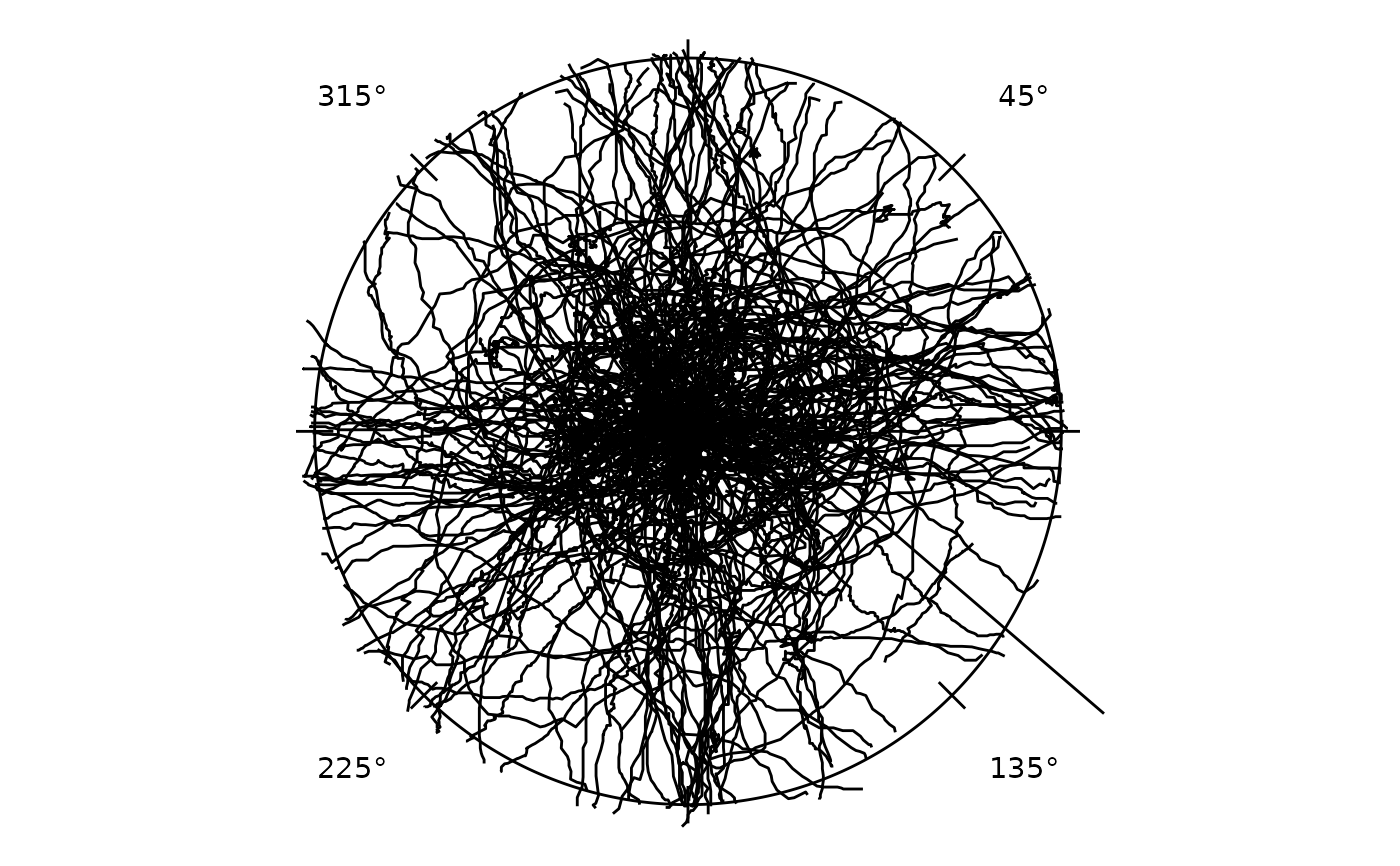
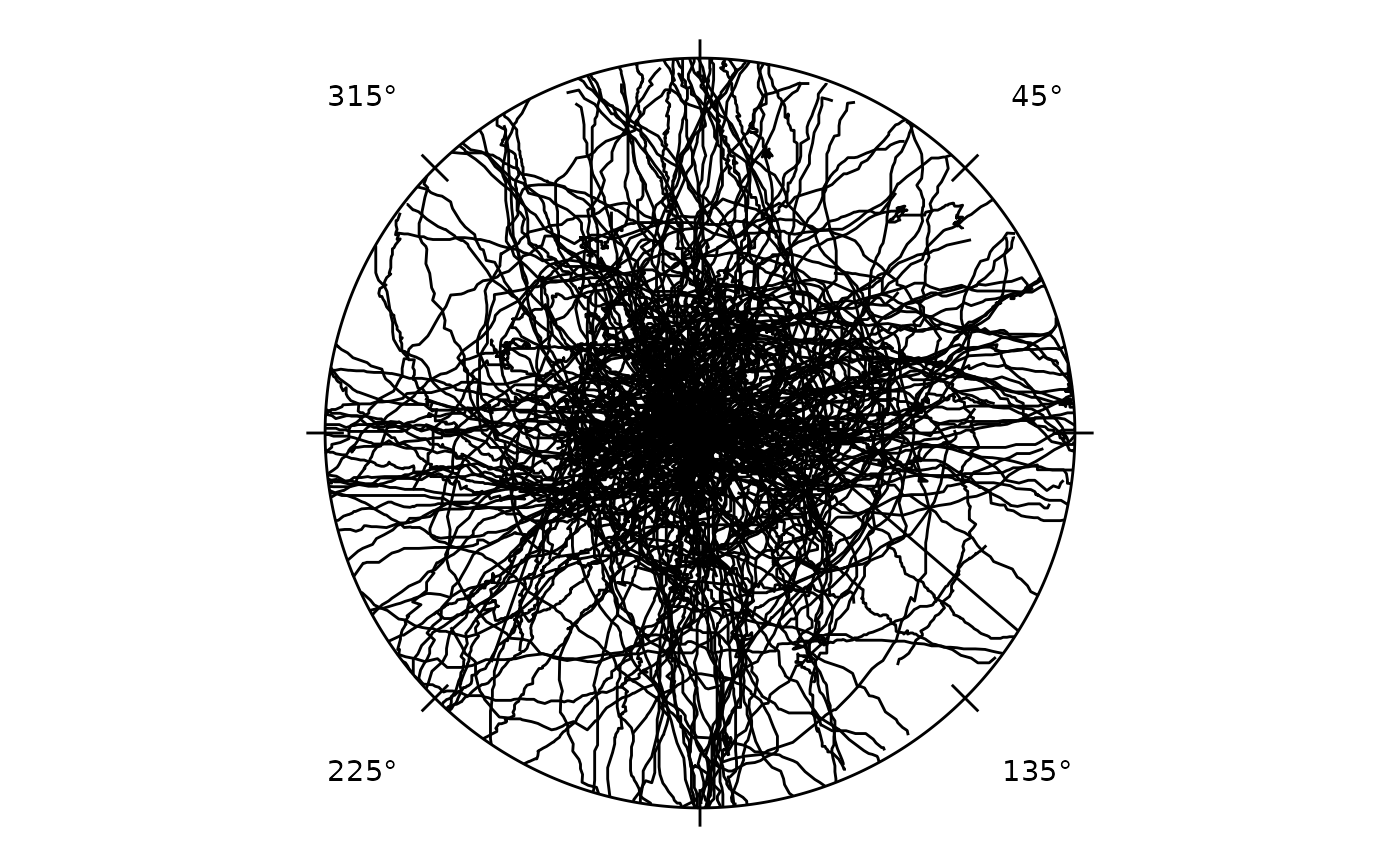
Deploying to gh-pages from @ JohnKirwan/radiatR@c9ec10226118670552b8f005bbaa3a85ccb03f56 🚀

diff --git a/articles/radiatR.html b/articles/radiatR.html
@@ -205,7 +205,9 @@ inspect the un-rotated frame as an experimental control (for instance,
 to check the apparatus carries no directional bias of its own), pass
 <code>coords = "absolute"</code>:</p>
 <div class="sourceCode" id="cb6"><pre class="downlit sourceCode r">
-<code class="sourceCode R"><span><span class="fu"><a href="../reference/radiate.html">radiate</a></span><span class="op">(</span><span class="va">cpunctatus</span>, coords <span class="op">=</span> <span class="st">"absolute"</span><span class="op">)</span></span></code></pre></div>
+<code class="sourceCode R"><span><span class="fu"><a href="../reference/radiate.html">radiate</a></span><span class="op">(</span><span class="va">cpunctatus</span>, coords <span class="op">=</span> <span class="st">"absolute"</span><span class="op">)</span></span>
+<span><span class="co">#&gt; Warning: Removed 105 rows containing missing values or values outside the scale range</span></span>
+<span><span class="co">#&gt; (`geom_path()`).</span></span></code></pre></div>
 <p><img src="radiatR_files/figure-html/plot-absolute-1.png" class="r-plt" alt="" width="700"></p>
 <p>The circumference can be labelled in domain units instead of degrees
 — useful for time-of-year or compass data. <code>angle_labels</code>
@@ -251,7 +253,9 @@ apparatus carries no directional bias of its own.
 (<code><a href="../reference/set_reference.html">set_reference()</a></code> sets the per-trajectory landmark direction
 that defines the relative frame.)</p>
 <div class="sourceCode" id="cb10"><pre class="downlit sourceCode r">
-<code class="sourceCode R"><span><span class="fu"><a href="../reference/radiate.html">radiate</a></span><span class="op">(</span><span class="va">cpunctatus</span>, coords <span class="op">=</span> <span class="st">"absolute"</span><span class="op">)</span></span></code></pre></div>
+<code class="sourceCode R"><span><span class="fu"><a href="../reference/radiate.html">radiate</a></span><span class="op">(</span><span class="va">cpunctatus</span>, coords <span class="op">=</span> <span class="st">"absolute"</span><span class="op">)</span></span>
+<span><span class="co">#&gt; Warning: Removed 105 rows containing missing values or values outside the scale range</span></span>
+<span><span class="co">#&gt; (`geom_path()`).</span></span></code></pre></div>
 <p><img src="radiatR_files/figure-html/plot-absolute-frame-1.png" class="r-plt" alt="" width="700"></p>
 </div>
 <div class="section level3">

diff --git a/news/index.html b/news/index.html
@@ -45,7 +45,9 @@
     <div class="section level2">
 <h2 class="pkg-version" data-toc-text="development version" id="radiatr-development-version">radiatR (development version)<a class="anchor" aria-label="anchor" href="#radiatr-development-version"></a></h2>
 <ul><li>
-<code><a href="../reference/get_all_object_pos.html">get_all_object_pos()</a></code> now reports out-of-bounds track points (radius &gt; 1) with a single aggregated message across the whole manifest, instead of one message per file. # radiatR 0.1.1</li>
+<code><a href="../reference/get_all_object_pos.html">get_all_object_pos()</a></code> now reports out-of-bounds track points (radius &gt; 1) with a single aggregated message across the whole manifest, instead of one message per file.</li>
+<li>
+<code>radiate(clip_tracks = TRUE)</code> (the default) now also clips beyond-circumference overshoot in the absolute frame (<code>coords = "absolute"</code>), not just the relative frame. The relative frame is a rotation of the absolute one, so <code>rho</code> is identical in both; the previous relative-only restriction let <code>coords = "absolute"</code> plots (e.g. in the package vignette) draw tracks visibly outside the unit circle. # radiatR 0.1.1</li>
 </ul><div class="section level3">
 <h3 id="bug-fixes-development-version">Bug fixes<a class="anchor" aria-label="anchor" href="#bug-fixes-development-version"></a></h3>
 <ul><li>

diff --git a/reference/radiate.html b/reference/radiate.html
@@ -471,6 +471,8 @@ supplying both spellings of a pair is an error.</p>
 <span class="r-in"><span><span class="fu">radiate</span><span class="op">(</span><span class="va">tracks_demo</span>, x_col <span class="op">=</span> <span class="st">"rel_x"</span>, y_col <span class="op">=</span> <span class="st">"rel_y"</span>, group_col <span class="op">=</span> <span class="st">"trial_id"</span><span class="op">)</span></span></span>
 <span class="r-plt img"><img src="radiate-1.png" alt="" width="700" height="433"></span>
 <span class="r-in"><span><span class="fu">radiate</span><span class="op">(</span><span class="va">cpunctatus</span>, coords <span class="op">=</span> <span class="st">"absolute"</span><span class="op">)</span></span></span>
+<span class="r-wrn co"><span class="r-pr">#&gt;</span> <span class="warning">Warning: </span>Removed 105 rows containing missing values or values outside the scale range</span>
+<span class="r-wrn co"><span class="r-pr">#&gt;</span> (`geom_path()`).</span>
 <span class="r-plt img"><img src="radiate-2.png" alt="" width="700" height="433"></span>
 </code></pre></div>
     </div>

diff --git a/news/index.md b/news/index.md
@@ -5,7 +5,14 @@
 - [`get_all_object_pos()`](https://johnkirwan.github.io/radiatR/reference/get_all_object_pos.md)
   now reports out-of-bounds track points (radius \> 1) with a single
   aggregated message across the whole manifest, instead of one message
-  per file. \# radiatR 0.1.1
+  per file.
+- `radiate(clip_tracks = TRUE)` (the default) now also clips
+  beyond-circumference overshoot in the absolute frame
+  (`coords = "absolute"`), not just the relative frame. The relative
+  frame is a rotation of the absolute one, so `rho` is identical in
+  both; the previous relative-only restriction let `coords = "absolute"`
+  plots (e.g. in the package vignette) draw tracks visibly outside the
+  unit circle. \# radiatR 0.1.1
 
 ### Bug fixes
 

diff --git a/articles/radiatR.md b/articles/radiatR.md
@@ -150,6 +150,8 @@ to check the apparatus carries no directional bias of its own), pass
 ``` r
 
 radiate(cpunctatus, coords = "absolute")
+#> Warning: Removed 105 rows containing missing values or values outside the scale range
+#> (`geom_path()`).
 ```
 
 ![](radiatR_files/figure-html/plot-absolute-1.png)
@@ -220,6 +222,8 @@ frame.)
 ``` r
 
 radiate(cpunctatus, coords = "absolute")
+#> Warning: Removed 105 rows containing missing values or values outside the scale range
+#> (`geom_path()`).
 ```
 
 ![](radiatR_files/figure-html/plot-absolute-frame-1.png)

diff --git a/reference/radiate.md b/reference/radiate.md
@@ -432,4 +432,6 @@ tracks_demo <- simulate_tracks(conditions = data.frame(n_trials = 1L),
 radiate(tracks_demo, x_col = "rel_x", y_col = "rel_y", group_col = "trial_id")
 
 radiate(cpunctatus, coords = "absolute")
+#> Warning: Removed 105 rows containing missing values or values outside the scale range
+#> (`geom_path()`).
 ```